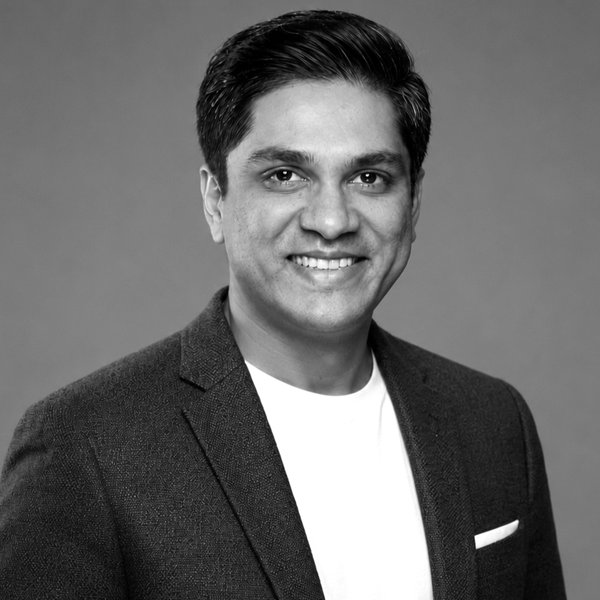
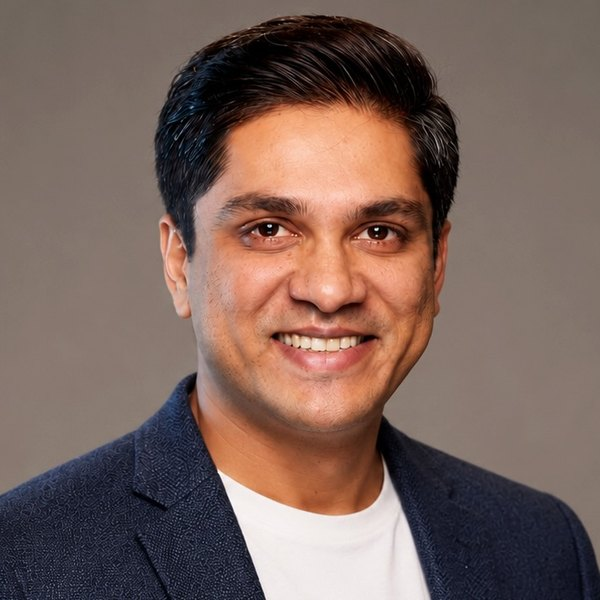
About: advisors at leadership-team size, new photos, updated titles
- Advisors shown as leadership-size cards, ordered Simon, Montoney,
  Garrison, Coliano, with placeholders for an approved line on what each
  advises Juliana on
- Photos for Lynn Simon, Lauren Garrison and Frank Coliano; new photo for
  Debashish Sasmal; crops matched to the same face scale
- Lauren Garrison: Senior Advisor, Growth & Strategic Partnerships, bio
  placeholder; Leah Callahan: Director, Commercialization
- Stylesheet and script version bumped so browsers load fresh files

diff --git a/about.html b/about.html
@@ -17,7 +17,7 @@
 <link rel="preconnect" href="https://fonts.googleapis.com">
 <link rel="preconnect" href="https://fonts.gstatic.com" crossorigin>
 <link rel="stylesheet" href="https://fonts.googleapis.com/css2?family=Nunito+Sans:wght@400;500;700;800&display=swap">
-<link rel="stylesheet" href="css/styles.css?v=20261117b">
+<link rel="stylesheet" href="css/styles.css?v=20261117c">
 <script>document.documentElement.classList.add('js');</script>
 </head>
 <body>
@@ -206,7 +206,7 @@
       <article class="member reveal">
         <button class="portrait-btn" type="button" data-person="leah-callahan" aria-haspopup="dialog"><span class="portrait"><img src="assets/team/leah.jpg" alt="" width="600" height="600" loading="lazy"></span><span class="sr-only">View profile: Leah Callahan</span></button>
         <div>
-          <div class="person-head"><div><h4><button class="name-btn" type="button" data-person="leah-callahan" aria-haspopup="dialog">Leah Callahan</button></h4><p class="role">Director, Go-to-Market &amp; Commercialization</p></div><a href="https://www.linkedin.com/in/leahjcallahan/" aria-label="Leah Callahan on LinkedIn" target="_blank" rel="noopener"><svg><use href="#i-linkedin"/></svg></a></div>
+          <div class="person-head"><div><h4><button class="name-btn" type="button" data-person="leah-callahan" aria-haspopup="dialog">Leah Callahan</button></h4><p class="role">Director, Commercialization</p></div><a href="https://www.linkedin.com/in/leahjcallahan/" aria-label="Leah Callahan on LinkedIn" target="_blank" rel="noopener"><svg><use href="#i-linkedin"/></svg></a></div>
           <p class="focus tbc">Your first point of contact for a partnership.</p>
         </div>
       </article>
@@ -221,29 +221,37 @@
 
     <div class="advisors-block" id="advisors">
       <h3 class="tier-label reveal">Advisors</h3>
-      <p class="tier-intro reveal">Guidance from health system and clinical leaders.</p>
-      <ul class="advisor-list">
-      <li class="advisor-row reveal">
-        <button class="portrait-btn" type="button" data-person="mark-montoney" aria-haspopup="dialog"><span class="portrait portrait--sm"><img src="assets/team/mark.jpg" alt="" width="64" height="64" loading="lazy"></span><span class="sr-only">View profile: Dr. Mark Montoney</span></button>
-        <div><h4><button class="name-btn" type="button" data-person="mark-montoney" aria-haspopup="dialog">Dr. Mark Montoney</button></h4><p>Former health system Chief Medical Officer</p></div>
-        <a href="https://www.linkedin.com/in/mark-montoney-md-mba-94a85014/" aria-label="Dr. Mark Montoney on LinkedIn" target="_blank" rel="noopener"><svg><use href="#i-linkedin"/></svg></a>
-      </li>
-      <li class="advisor-row reveal">
-        <button class="portrait-btn" type="button" data-person="lynn-simon" aria-haspopup="dialog"><span class="initials tbc">LS</span><span class="sr-only">View profile: Dr. Lynn Simon</span></button>
-        <div><h4><button class="name-btn" type="button" data-person="lynn-simon" aria-haspopup="dialog">Dr. Lynn Simon</button></h4><p>Former President, Healthcare Innovation, and Chief Medical Officer, Community Health Systems</p></div>
-        <a href="https://www.linkedin.com/in/lynn-simon-ba4281b/" aria-label="Dr. Lynn Simon on LinkedIn" target="_blank" rel="noopener"><svg><use href="#i-linkedin"/></svg></a>
-      </li>
-      <li class="advisor-row reveal">
-        <button class="portrait-btn" type="button" data-person="frank-coliano" aria-haspopup="dialog"><span class="initials tbc">FC</span><span class="sr-only">View profile: Frank Coliano</span></button>
-        <div><h4><button class="name-btn" type="button" data-person="frank-coliano" aria-haspopup="dialog">Frank Coliano</button></h4><p class="tbc">CEO, Dynamic Dental Partners Group</p></div>
-        <span class="tbc" title="LinkedIn URL to confirm"><svg><use href="#i-linkedin"/></svg></span>
-      </li>
-      <li class="advisor-row reveal">
-        <button class="portrait-btn" type="button" data-person="lauren-garrison" aria-haspopup="dialog"><span class="initials tbc">LG</span><span class="sr-only">View profile: Lauren Garrison</span></button>
-        <div><h4><button class="name-btn" type="button" data-person="lauren-garrison" aria-haspopup="dialog">Lauren Garrison</button></h4><p class="tbc">Healthcare strategy and growth leader</p></div>
-        <a href="https://www.linkedin.com/in/lauren-garrison-41349b3/" aria-label="Lauren Garrison on LinkedIn" target="_blank" rel="noopener"><svg><use href="#i-linkedin"/></svg></a>
-      </li>
-      </ul>
+      <p class="tier-intro reveal">Health system and clinical leaders who guide the model and its partnerships.</p>
+      <div class="members members--advisors">
+      <article class="member member--advisor reveal">
+        <button class="portrait-btn" type="button" data-person="lynn-simon" aria-haspopup="dialog"><span class="portrait"><img src="assets/team/lynn.jpg" alt="" width="600" height="600" loading="lazy"></span><span class="sr-only">View profile: Dr. Lynn Simon</span></button>
+        <div>
+          <div class="person-head"><div><h4><button class="name-btn" type="button" data-person="lynn-simon" aria-haspopup="dialog">Dr. Lynn Simon</button></h4><p class="role">Former President, Healthcare Innovation, and Chief Medical Officer, Community Health Systems</p></div><a href="https://www.linkedin.com/in/lynn-simon-ba4281b/" aria-label="Dr. Lynn Simon on LinkedIn" target="_blank" rel="noopener"><svg><use href="#i-linkedin"/></svg></a></div>
+          <p class="focus"><span class="tbc">[One line, approved by Dr. Simon, on what she advises Juliana on]</span></p>
+        </div>
+      </article>
+      <article class="member member--advisor reveal">
+        <button class="portrait-btn" type="button" data-person="mark-montoney" aria-haspopup="dialog"><span class="portrait"><img src="assets/team/mark.jpg" alt="" width="600" height="600" loading="lazy"></span><span class="sr-only">View profile: Dr. Mark Montoney</span></button>
+        <div>
+          <div class="person-head"><div><h4><button class="name-btn" type="button" data-person="mark-montoney" aria-haspopup="dialog">Dr. Mark Montoney</button></h4><p class="role">Former health system Chief Medical Officer</p></div><a href="https://www.linkedin.com/in/mark-montoney-md-mba-94a85014/" aria-label="Dr. Mark Montoney on LinkedIn" target="_blank" rel="noopener"><svg><use href="#i-linkedin"/></svg></a></div>
+          <p class="focus"><span class="tbc">[One line, approved by Dr. Montoney, on what he advises Juliana on]</span></p>
+        </div>
+      </article>
+      <article class="member member--advisor reveal">
+        <button class="portrait-btn" type="button" data-person="lauren-garrison" aria-haspopup="dialog"><span class="portrait"><img src="assets/team/lauren.jpg" alt="" width="600" height="600" loading="lazy"></span><span class="sr-only">View profile: Lauren Garrison</span></button>
+        <div>
+          <div class="person-head"><div><h4><button class="name-btn" type="button" data-person="lauren-garrison" aria-haspopup="dialog">Lauren Garrison</button></h4><p class="role">Senior Advisor, Growth &amp; Strategic Partnerships</p></div><a href="https://www.linkedin.com/in/lauren-garrison-41349b3/" aria-label="Lauren Garrison on LinkedIn" target="_blank" rel="noopener"><svg><use href="#i-linkedin"/></svg></a></div>
+          <p class="focus"><span class="tbc">[One line, approved by Lauren, on what she advises Juliana on]</span></p>
+        </div>
+      </article>
+      <article class="member member--advisor reveal">
+        <button class="portrait-btn" type="button" data-person="frank-coliano" aria-haspopup="dialog"><span class="portrait"><img src="assets/team/frank.jpg" alt="" width="600" height="600" loading="lazy"></span><span class="sr-only">View profile: Frank Coliano</span></button>
+        <div>
+          <div class="person-head"><div><h4><button class="name-btn" type="button" data-person="frank-coliano" aria-haspopup="dialog">Frank Coliano</button></h4><p class="role tbc">CEO, Dynamic Dental Partners Group</p></div><span class="tbc" title="LinkedIn URL to confirm"><svg><use href="#i-linkedin"/></svg></span></div>
+          <p class="focus"><span class="tbc">[One line, approved by Frank, on what he advises Juliana on]</span></p>
+        </div>
+      </article>
+      </div>
     </div>
   </div>
 </section>
@@ -268,7 +276,7 @@
     </div>
   </div>
 </dialog>
-<script type="application/json" id="people-data">[{"tier": "Founder", "slug": "patrick-sorrentino", "photo": "patrick.jpg", "initials": null, "name": "Patrick Sorrentino", "title": "CEO &amp; Co-Founder", "focus": "Partners with health system executives from the first conversation to launch.", "bio": "Patrick is a former health system CEO with deep experience leading hospital operations and transformation initiatives. His career spans performance improvement and care model innovation, with a focus on operating models that scale and improve both clinical and financial outcomes.", "highlights": ["Former health system CEO", "Hospital operations", "Performance improvement", "MHA"], "linkedin": "https://www.linkedin.com/in/patrick-sorrentino-mha-59409552/"}, {"tier": "Founder", "slug": "michael-mccann", "photo": "michael.jpg", "initials": null, "name": "Dr. Michael McCann", "title": "Founding Director, Clinical Model &amp; Care Design", "focus": "Designs the clinical model and trains partner teams to run it.", "bio": "Dr. McCann is a physician leader with deep expertise in caring for medically complex inpatient populations. He has led the development of care models for high-utilization patients, aligning clinical excellence with operational execution.", "highlights": ["Physician leader", "Complex inpatient care", "Care model design", "MD, MBA"], "linkedin": "https://www.linkedin.com/in/michael-d-mccann-md-mba-2a3118191/"}, {"tier": "Founder", "slug": "les-wilkinson", "photo": "les.jpg", "initials": null, "name": "Les Wilkinson", "title": "Co-Founder, Strategy &amp; Operations Advisor", "focus": "Shapes strategy and operations as programs launch and grow.", "bio": "Les is Chief Operating Officer at Hashed Health, where he leads operations, finance, legal and strategic partnerships. He has helped create portfolio companies including Juliana, Bramble Health (acquired by Turquoise Health) and SubPop Health (acquired by MedeAnalytics). Before Hashed, he was a founding team member and Managing Director at Martin Ventures, a healthcare technology venture firm, and served as a director and investment lead for digital health and tech-enabled services companies. He began his career as a healthcare transactional attorney in Nashville.", "highlights": ["COO, Hashed Health", "Martin Ventures", "Healthcare attorney", "Venture builder"], "linkedin": "https://www.linkedin.com/in/leswilkinson/"}, {"tier": "Leadership team", "slug": "debashish-sasmal", "photo": "deb.jpg", "initials": null, "name": "Debashish Sasmal", "title": "Head of Product &amp; Platform", "focus": "Leads Juliana IQ and your data onboarding.", "bio": "Debashish brings more than 15 years of experience in product leadership, venture incubation, commercialization and enterprise technology. He spent over six years at UPMC Enterprises leading product and venture initiatives in virtual care, cognitive health and chronic pain, and has served as a board observer for venture-backed companies. He is Vice President of Product Management at Hashed Health.", "highlights": ["VP Product, Hashed Health", "UPMC Enterprises", "MS Product Management, Carnegie Mellon", "B.Tech, Computer Science"], "linkedin": "https://www.linkedin.com/in/dsasmal/"}, {"tier": "Leadership team", "slug": "leah-callahan", "photo": "leah.jpg", "initials": null, "name": "Leah Callahan", "title": "Director, Go-to-Market &amp; Commercialization", "focus": "Your first point of contact for a partnership.", "bio": "Leah leads go-to-market and commercialization at Hashed Health, building the commercial foundation for its ventures from launch through scale. She works with C-suite executives at health systems, payers and healthcare services organizations. She previously evaluated hundreds of early-stage healthcare companies each year, and has long worked where founders, operators and investors meet.", "highlights": ["Commercialization, Hashed Health", "Health system and payer partnerships", "Early-stage healthcare investing"], "linkedin": "https://www.linkedin.com/in/leahjcallahan/"}, {"tier": "Leadership team", "slug": "shadi-awad", "photo": "shadi.jpg", "initials": null, "name": "Dr. Shadi Awad", "title": "Chief of Staff", "focus": "Keeps priorities, partners and the team moving with the CEO.", "bio": "Dr. Awad is a physician and Venture Architect at Hashed Health, helping ventures move from early concept to investable business, from research and financial models to fundraising strategy and investor communications. He trained as a general surgeon at UT Southwestern and has worked in healthcare consulting and with health systems on enterprise software. He holds an MD and an MBA from the UAB Heersink School of Medicine, and studied economics at Washington University in St. Louis.", "highlights": ["MD, MBA, UAB", "Surgical training, UT Southwestern", "Venture Architect, Hashed Health"], "linkedin": "https://www.linkedin.com/in/shadi-awad-md-mba-584ab9301/"}, {"tier": "Advisor", "slug": "mark-montoney", "photo": "mark.jpg", "initials": null, "name": "Dr. Mark Montoney", "title": "Advisor", "focus": "Former health system Chief Medical Officer", "bio": "Dr. Montoney is a physician executive with national leadership experience in care delivery innovation. A former health system Chief Medical Officer, he has an extensive background in complex care transformation and focuses on integrating clinical strategy with operational performance.", "highlights": ["Former health system CMO", "Care delivery innovation", "MD, MBA"], "linkedin": "https://www.linkedin.com/in/mark-montoney-md-mba-94a85014/"}, {"tier": "Advisor", "slug": "lynn-simon", "photo": null, "initials": "LS", "name": "Dr. Lynn Simon", "title": "Advisor", "focus": "Former President, Healthcare Innovation, and Chief Medical Officer, Community Health Systems", "bio": "Dr. Simon joined Community Health Systems in 2010 and served as President, Healthcare Innovation, and Chief Medical Officer before retiring from the role at the end of 2024 and continuing with the company as a consultant. Earlier, she was Senior Vice President and Chief Medical Officer of Jewish Hospital &amp; St. Mary's in Louisville, Kentucky.", "highlights": ["Former CMO, Community Health Systems", "Healthcare innovation", "Physician executive"], "linkedin": "https://www.linkedin.com/in/lynn-simon-ba4281b/"}, {"tier": "Advisor", "slug": "frank-coliano", "photo": null, "initials": "FC", "name": "Frank Coliano", "title": "Advisor", "focus": "CEO, Dynamic Dental Partners Group", "bio": "Frank is CEO of Dynamic Dental Partners Group and previously served as a Senior Advisor to Hashed Health.", "highlights": ["CEO, Dynamic Dental Partners Group"], "linkedin": null}, {"tier": "Advisor", "slug": "lauren-garrison", "photo": null, "initials": "LG", "name": "Lauren Garrison", "title": "Advisor", "focus": "Healthcare strategy and growth leader", "bio": "Lauren brings experience in healthcare strategy and growth. A fuller profile will follow.", "highlights": ["Healthcare strategy and growth"], "linkedin": "https://www.linkedin.com/in/lauren-garrison-41349b3/"}]</script>
+<script type="application/json" id="people-data">[{"tier": "Founder", "slug": "patrick-sorrentino", "photo": "patrick.jpg", "initials": null, "name": "Patrick Sorrentino", "title": "CEO &amp; Co-Founder", "focus": "Partners with health system executives from the first conversation to launch.", "bio": "Patrick is a former health system CEO with deep experience leading hospital operations and transformation initiatives. His career spans performance improvement and care model innovation, with a focus on operating models that scale and improve both clinical and financial outcomes.", "highlights": ["Former health system CEO", "Hospital operations", "Performance improvement", "MHA"], "linkedin": "https://www.linkedin.com/in/patrick-sorrentino-mha-59409552/"}, {"tier": "Founder", "slug": "michael-mccann", "photo": "michael.jpg", "initials": null, "name": "Dr. Michael McCann", "title": "Founding Director, Clinical Model &amp; Care Design", "focus": "Designs the clinical model and trains partner teams to run it.", "bio": "Dr. McCann is a physician leader with deep expertise in caring for medically complex inpatient populations. He has led the development of care models for high-utilization patients, aligning clinical excellence with operational execution.", "highlights": ["Physician leader", "Complex inpatient care", "Care model design", "MD, MBA"], "linkedin": "https://www.linkedin.com/in/michael-d-mccann-md-mba-2a3118191/"}, {"tier": "Founder", "slug": "les-wilkinson", "photo": "les.jpg", "initials": null, "name": "Les Wilkinson", "title": "Co-Founder, Strategy &amp; Operations Advisor", "focus": "Shapes strategy and operations as programs launch and grow.", "bio": "Les is Chief Operating Officer at Hashed Health, where he leads operations, finance, legal and strategic partnerships. He has helped create portfolio companies including Juliana, Bramble Health (acquired by Turquoise Health) and SubPop Health (acquired by MedeAnalytics). Before Hashed, he was a founding team member and Managing Director at Martin Ventures, a healthcare technology venture firm, and served as a director and investment lead for digital health and tech-enabled services companies. He began his career as a healthcare transactional attorney in Nashville.", "highlights": ["COO, Hashed Health", "Martin Ventures", "Healthcare attorney", "Venture builder"], "linkedin": "https://www.linkedin.com/in/leswilkinson/"}, {"tier": "Leadership team", "slug": "debashish-sasmal", "photo": "deb.jpg", "initials": null, "name": "Debashish Sasmal", "title": "Head of Product &amp; Platform", "focus": "Leads Juliana IQ and your data onboarding.", "bio": "Debashish brings more than 15 years of experience in product leadership, venture incubation, commercialization and enterprise technology. He spent over six years at UPMC Enterprises leading product and venture initiatives in virtual care, cognitive health and chronic pain, and has served as a board observer for venture-backed companies. He is Vice President of Product Management at Hashed Health.", "highlights": ["VP Product, Hashed Health", "UPMC Enterprises", "MS Product Management, Carnegie Mellon", "B.Tech, Computer Science"], "linkedin": "https://www.linkedin.com/in/dsasmal/"}, {"tier": "Leadership team", "slug": "leah-callahan", "photo": "leah.jpg", "initials": null, "name": "Leah Callahan", "title": "Director, Commercialization", "focus": "Your first point of contact for a partnership.", "bio": "Leah leads go-to-market and commercialization at Hashed Health, building the commercial foundation for its ventures from launch through scale. She works with C-suite executives at health systems, payers and healthcare services organizations. She previously evaluated hundreds of early-stage healthcare companies each year, and has long worked where founders, operators and investors meet.", "highlights": ["Commercialization, Hashed Health", "Health system and payer partnerships", "Early-stage healthcare investing"], "linkedin": "https://www.linkedin.com/in/leahjcallahan/"}, {"tier": "Leadership team", "slug": "shadi-awad", "photo": "shadi.jpg", "initials": null, "name": "Dr. Shadi Awad", "title": "Chief of Staff", "focus": "Keeps priorities, partners and the team moving with the CEO.", "bio": "Dr. Awad is a physician and Venture Architect at Hashed Health, helping ventures move from early concept to investable business, from research and financial models to fundraising strategy and investor communications. He trained as a general surgeon at UT Southwestern and has worked in healthcare consulting and with health systems on enterprise software. He holds an MD and an MBA from the UAB Heersink School of Medicine, and studied economics at Washington University in St. Louis.", "highlights": ["MD, MBA, UAB", "Surgical training, UT Southwestern", "Venture Architect, Hashed Health"], "linkedin": "https://www.linkedin.com/in/shadi-awad-md-mba-584ab9301/"}, {"tier": "Advisor", "slug": "lynn-simon", "photo": "lynn.jpg", "initials": null, "name": "Dr. Lynn Simon", "title": "Advisor", "focus": "Former President, Healthcare Innovation, and Chief Medical Officer, Community Health Systems", "bio": "Dr. Simon joined Community Health Systems in 2010 and served as President, Healthcare Innovation, and Chief Medical Officer before retiring from the role at the end of 2024 and continuing with the company as a consultant. Earlier, she was Senior Vice President and Chief Medical Officer of Jewish Hospital &amp; St. Mary's in Louisville, Kentucky.", "highlights": ["Former CMO, Community Health Systems", "Healthcare innovation", "Physician executive"], "linkedin": "https://www.linkedin.com/in/lynn-simon-ba4281b/", "bring": "<span class=\"tbc\">[One line, approved by Dr. Simon, on what she advises Juliana on]</span>"}, {"tier": "Advisor", "slug": "mark-montoney", "photo": "mark.jpg", "initials": null, "name": "Dr. Mark Montoney", "title": "Advisor", "focus": "Former health system Chief Medical Officer", "bio": "Dr. Montoney is a physician executive with national leadership experience in care delivery innovation. A former health system Chief Medical Officer, he has an extensive background in complex care transformation and focuses on integrating clinical strategy with operational performance.", "highlights": ["Former health system CMO", "Care delivery innovation", "MD, MBA"], "linkedin": "https://www.linkedin.com/in/mark-montoney-md-mba-94a85014/", "bring": "<span class=\"tbc\">[One line, approved by Dr. Montoney, on what he advises Juliana on]</span>"}, {"tier": "Advisor", "slug": "lauren-garrison", "photo": "lauren.jpg", "initials": null, "name": "Lauren Garrison", "title": "Senior Advisor, Growth &amp; Strategic Partnerships", "focus": "<span class=\"tbc\">[One line, approved by Lauren, on what she advises Juliana on]</span>", "bio": "<span class=\"tbc\">[Bio to come: Lauren’s background and experience in healthcare growth and strategic partnerships, approved by Lauren]</span>", "highlights": ["Growth and strategic partnerships"], "linkedin": "https://www.linkedin.com/in/lauren-garrison-41349b3/", "bring": "<span class=\"tbc\">[One line, approved by Lauren, on what she advises Juliana on]</span>"}, {"tier": "Advisor", "slug": "frank-coliano", "photo": "frank.jpg", "initials": null, "name": "Frank Coliano", "title": "Advisor", "focus": "CEO, Dynamic Dental Partners Group", "bio": "Frank is CEO of Dynamic Dental Partners Group and previously served as a Senior Advisor to Hashed Health.", "highlights": ["CEO, Dynamic Dental Partners Group"], "linkedin": null, "bring": "<span class=\"tbc\">[One line, approved by Frank, on what he advises Juliana on]</span>"}]</script>
 
 <!-- Join -->
 <section class="section section--dark" id="join">
@@ -323,6 +331,6 @@
   </div>
 </footer>
 
-<script src="js/main.js?v=20261117b"></script>
+<script src="js/main.js?v=20261117c"></script>
 </body>
 </html>

diff --git a/how-it-works.html b/how-it-works.html
@@ -17,7 +17,7 @@
 <link rel="preconnect" href="https://fonts.googleapis.com">
 <link rel="preconnect" href="https://fonts.gstatic.com" crossorigin>
 <link rel="stylesheet" href="https://fonts.googleapis.com/css2?family=Nunito+Sans:wght@400;500;700;800&display=swap">
-<link rel="stylesheet" href="css/styles.css?v=20261117b">
+<link rel="stylesheet" href="css/styles.css?v=20261117c">
 <script>document.documentElement.classList.add('js');</script>
 </head>
 <body>
@@ -305,6 +305,6 @@
   </div>
 </footer>
 
-<script src="js/main.js?v=20261117b"></script>
+<script src="js/main.js?v=20261117c"></script>
 </body>
 </html>

diff --git a/index.html b/index.html
@@ -17,7 +17,7 @@
 <link rel="preconnect" href="https://fonts.googleapis.com">
 <link rel="preconnect" href="https://fonts.gstatic.com" crossorigin>
 <link rel="stylesheet" href="https://fonts.googleapis.com/css2?family=Nunito+Sans:wght@400;500;700;800&display=swap">
-<link rel="stylesheet" href="css/styles.css?v=20261117b">
+<link rel="stylesheet" href="css/styles.css?v=20261117c">
 <script>document.documentElement.classList.add('js');</script>
 </head>
 <body>
@@ -334,6 +334,6 @@
   </div>
 </footer>
 
-<script src="js/main.js?v=20261117b"></script>
+<script src="js/main.js?v=20261117c"></script>
 </body>
 </html>

diff --git a/results.html b/results.html
@@ -17,7 +17,7 @@
 <link rel="preconnect" href="https://fonts.googleapis.com">
 <link rel="preconnect" href="https://fonts.gstatic.com" crossorigin>
 <link rel="stylesheet" href="https://fonts.googleapis.com/css2?family=Nunito+Sans:wght@400;500;700;800&display=swap">
-<link rel="stylesheet" href="css/styles.css?v=20261117b">
+<link rel="stylesheet" href="css/styles.css?v=20261117c">
 <script>document.documentElement.classList.add('js');</script>
 </head>
 <body>
@@ -375,6 +375,6 @@
   </div>
 </footer>
 
-<script src="js/main.js?v=20261117b"></script>
+<script src="js/main.js?v=20261117c"></script>
 </body>
 </html>

diff --git a/working-with-us.html b/working-with-us.html
@@ -17,7 +17,7 @@
 <link rel="preconnect" href="https://fonts.googleapis.com">
 <link rel="preconnect" href="https://fonts.gstatic.com" crossorigin>
 <link rel="stylesheet" href="https://fonts.googleapis.com/css2?family=Nunito+Sans:wght@400;500;700;800&display=swap">
-<link rel="stylesheet" href="css/styles.css?v=20261117b">
+<link rel="stylesheet" href="css/styles.css?v=20261117c">
 <script>document.documentElement.classList.add('js');</script>
 </head>
 <body>
@@ -233,6 +233,6 @@
   </div>
 </footer>
 
-<script src="js/main.js?v=20261117b"></script>
+<script src="js/main.js?v=20261117c"></script>
 </body>
 </html>

diff --git a/privacy.html b/privacy.html
@@ -10,7 +10,7 @@
 <link rel="preconnect" href="https://fonts.googleapis.com">
 <link rel="preconnect" href="https://fonts.gstatic.com" crossorigin>
 <link rel="stylesheet" href="https://fonts.googleapis.com/css2?family=Nunito+Sans:wght@400;500;700;800&display=swap">
-<link rel="stylesheet" href="css/styles.css?v=20261117b">
+<link rel="stylesheet" href="css/styles.css?v=20261117c">
 <script>document.documentElement.classList.add('js');</script>
 </head>
 <body>
@@ -95,6 +95,6 @@
   </div>
 </footer>
 
-<script src="js/main.js?v=20261117b"></script>
+<script src="js/main.js?v=20261117c"></script>
 </body>
 </html>

diff --git a/css/styles.css b/css/styles.css
@@ -1161,3 +1161,9 @@ html.has-subnav { scroll-padding-top: 140px; }
 .iq-glimpse h3 { font-size: 22px; }
 .iq-glimpse > div { max-width: 520px; }
 @media (max-width: 900px) { .iq-glimpse { grid-template-columns: 1fr; } .iq-glimpse figure { max-width: 520px; } }
+
+/* About: advisors at the same size as the leadership team, two per row */
+.members--advisors { grid-template-columns: repeat(2, 1fr); column-gap: 48px; row-gap: 36px; }
+.member--advisor .role { line-height: 1.4; }
+.advisors-block { margin-top: 72px; }
+@media (max-width: 900px) { .members--advisors { grid-template-columns: 1fr; } }
